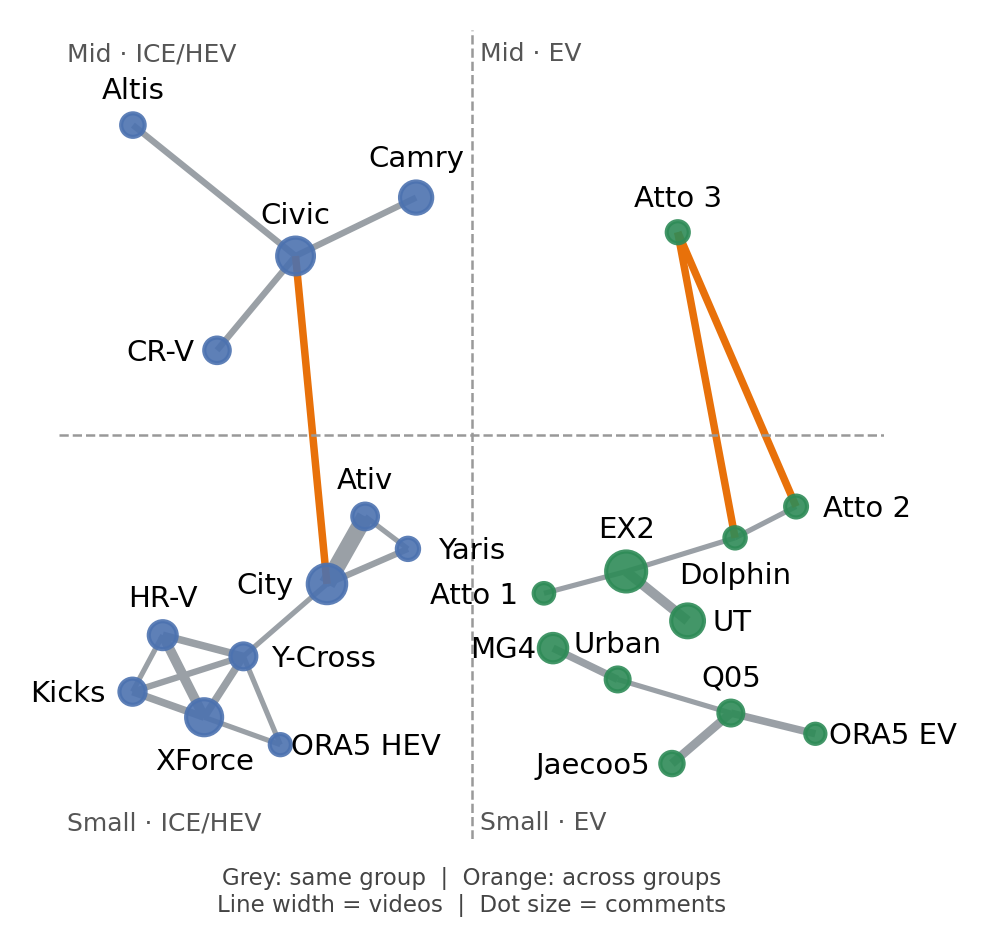
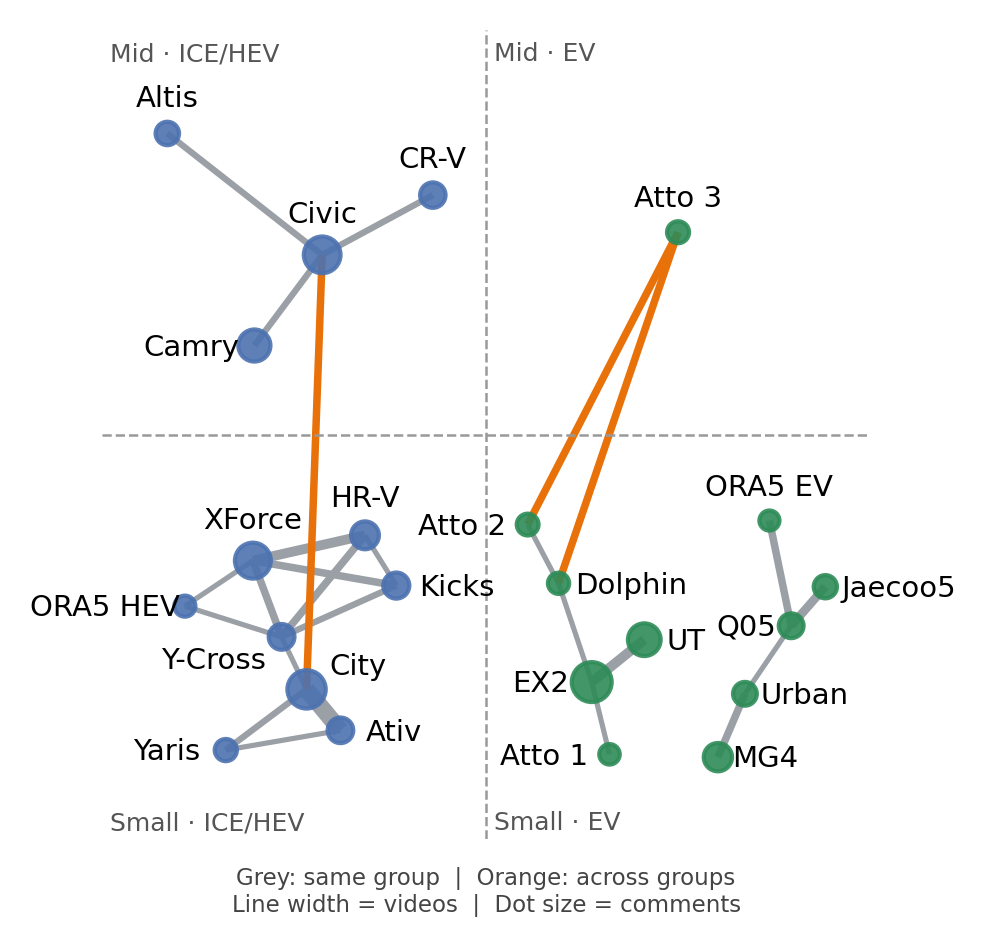
Add files via upload

diff --git a/make_figure_final.py b/make_figure_final.py
@@ -30,9 +30,10 @@ HW, HH = 0.215, 0.175                                   # half width / height of
 def box_layout(nodes, seed):
     sub = G.subgraph(nodes)          # each connected piece gets its own strip of the box
     comps = sorted((sorted(c) for c in nx.connected_components(sub)), key=lambda c: (-len(c), c))
-    tot = sum(len(c) + 1 for c in comps); left = -1.0; p = {}
+    GAP = 1.5                        # empty space between two pieces in the same box, so they read as separate
+    tot = sum(len(c) + 1 for c in comps) + GAP * (len(comps) - 1); left = -1.0; p = {}
     for c in comps:
-        wdt = 2.0 * (len(c) + 1) / tot; ccx = left + wdt / 2; left += wdt
+        wdt = 2.0 * (len(c) + 1) / tot; ccx = left + wdt / 2; left += wdt + 2.0 * GAP / tot
         if len(c) == 1: lp = {c[0]: (0.0, 0.0)}
         elif len(c) == 2: lp = {c[0]: (0.0, 0.6), c[1]: (0.0, -0.6)}
         else:
@@ -45,7 +46,7 @@ def box_layout(nodes, seed):
                       0.4 * lp[n][1] / m0 + 0.6 * (2 * ry[n] / L - 1)) for n in lp}
         m = max(max(abs(x), abs(y)) for x, y in lp.values()) or 1.0
         for n, (x, y) in lp.items():
-            p[n] = (ccx + 0.42 * wdt * x / m, 0.85 * y / m)
+            p[n] = (ccx + 0.40 * wdt * x / m, 0.85 * y / m)
     return p
 def place_box(g, layout, r, f):
     cx, cy = CENTER[g]; c, s_ = math.cos(math.radians(r)), math.sin(math.radians(r))
@@ -91,12 +92,17 @@ def clash(n, xy, P, placed):
     c = 0
     for m, (x2, y2) in placed.items():                  # keep a visible gap between two labels
         if m != n and abs(xy[0] - x2) < (lw(n) + lw(m)) / 2 + 0.012 and abs(xy[1] - y2) < 0.045: c += 3
-    cx_, cy_ = xy[0], xy[1] + 0.02                       # label centre: it should be nearer to its own dot than to any other dot
-    d_own = math.hypot(cx_ - P[n][0], cy_ - P[n][1])
-    for m, (px, py) in P.items():
-        if m != n and math.hypot(cx_ - px, cy_ - py) < d_own: c += 2
-    for m, (px, py) in P.items():                       # a label must not sit on top of another dot
-        if m != n and abs(xy[0] - px) < lw(n) / 2 + 0.012 and xy[1] - 0.012 < py < xy[1] + 0.05: c += 3
+    h = lw(n) / 2                                        # label box: x in [xy0-h, xy0+h], y in [xy1, xy1+0.04]
+    def box_gap(m):                                      # gap between the label box and the edge of dot m
+        px, py = P[m]
+        dx = max(xy[0] - h - px, 0, px - (xy[0] + h)); dy = max(xy[1] - py, 0, py - (xy[1] + 0.04))
+        return math.hypot(dx, dy) - max(rx_(m), ry_(m))
+    g_own = box_gap(n)
+    for m in P:
+        if m == n: continue
+        g = box_gap(m)
+        if g < 0.004: c += 6                             # label touches or covers another dot
+        elif g < g_own + 0.01: c += 3                    # label is about as near to another dot as to its own
     for a_, b_ in G.edges:                              # ... or on top of any link (near its own dot excluded)
         for t in (0.0, 0.1, 0.2, 0.3, 0.4, 0.5, 0.6, 0.7, 0.8, 0.9, 1.0):
             qx = P[a_][0] + t * (P[b_][0] - P[a_][0]); qy = P[a_][1] + t * (P[b_][1] - P[a_][1])
@@ -109,6 +115,8 @@ def place_labels(P):
         x, y = P[n]; h = lw(n) / 2
         opts = [(x, y + ry_(n) + 0.012),                                                  # above (preferred),
                 (x + rx_(n) + 0.012 + h, y - 0.02), (x - rx_(n) - 0.012 - h, y - 0.02),    # right, left,
+                (x + rx_(n) + 0.004 + h, y + ry_(n) * 0.5), (x - rx_(n) - 0.004 - h, y + ry_(n) * 0.5),   # upper right / left,
+                (x + rx_(n) + 0.004 + h, y - ry_(n) * 0.5 - 0.04), (x - rx_(n) - 0.004 - h, y - ry_(n) * 0.5 - 0.04),  # lower right / left,
                 (x, y - ry_(n) - 0.012 - 0.04)]                                           # below (last resort)
         placed[n] = min(opts, key=lambda xy: (clash(n, xy, P, placed), opts.index(xy)))
     cost = sum(clash(n, placed[n], P, placed) for n in G)                                 # final check, all labels in place
